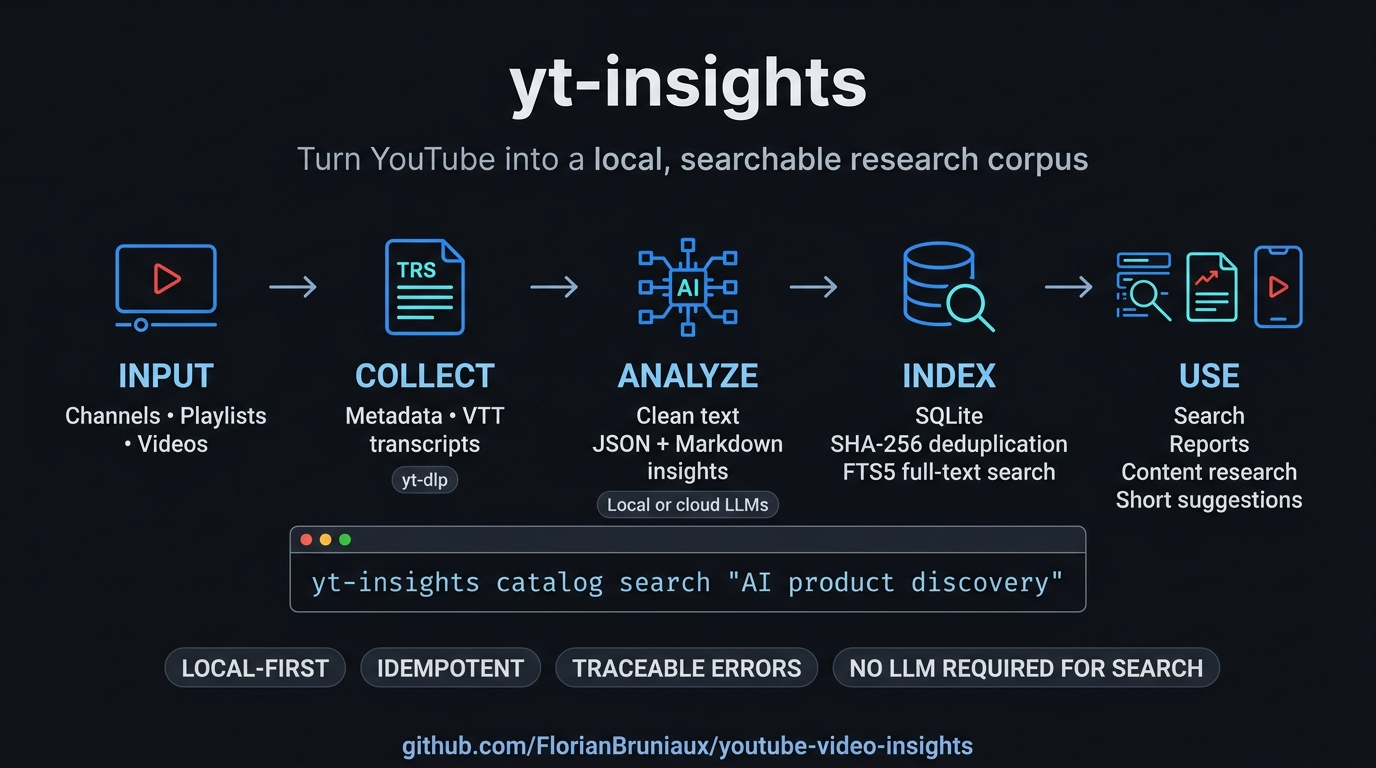
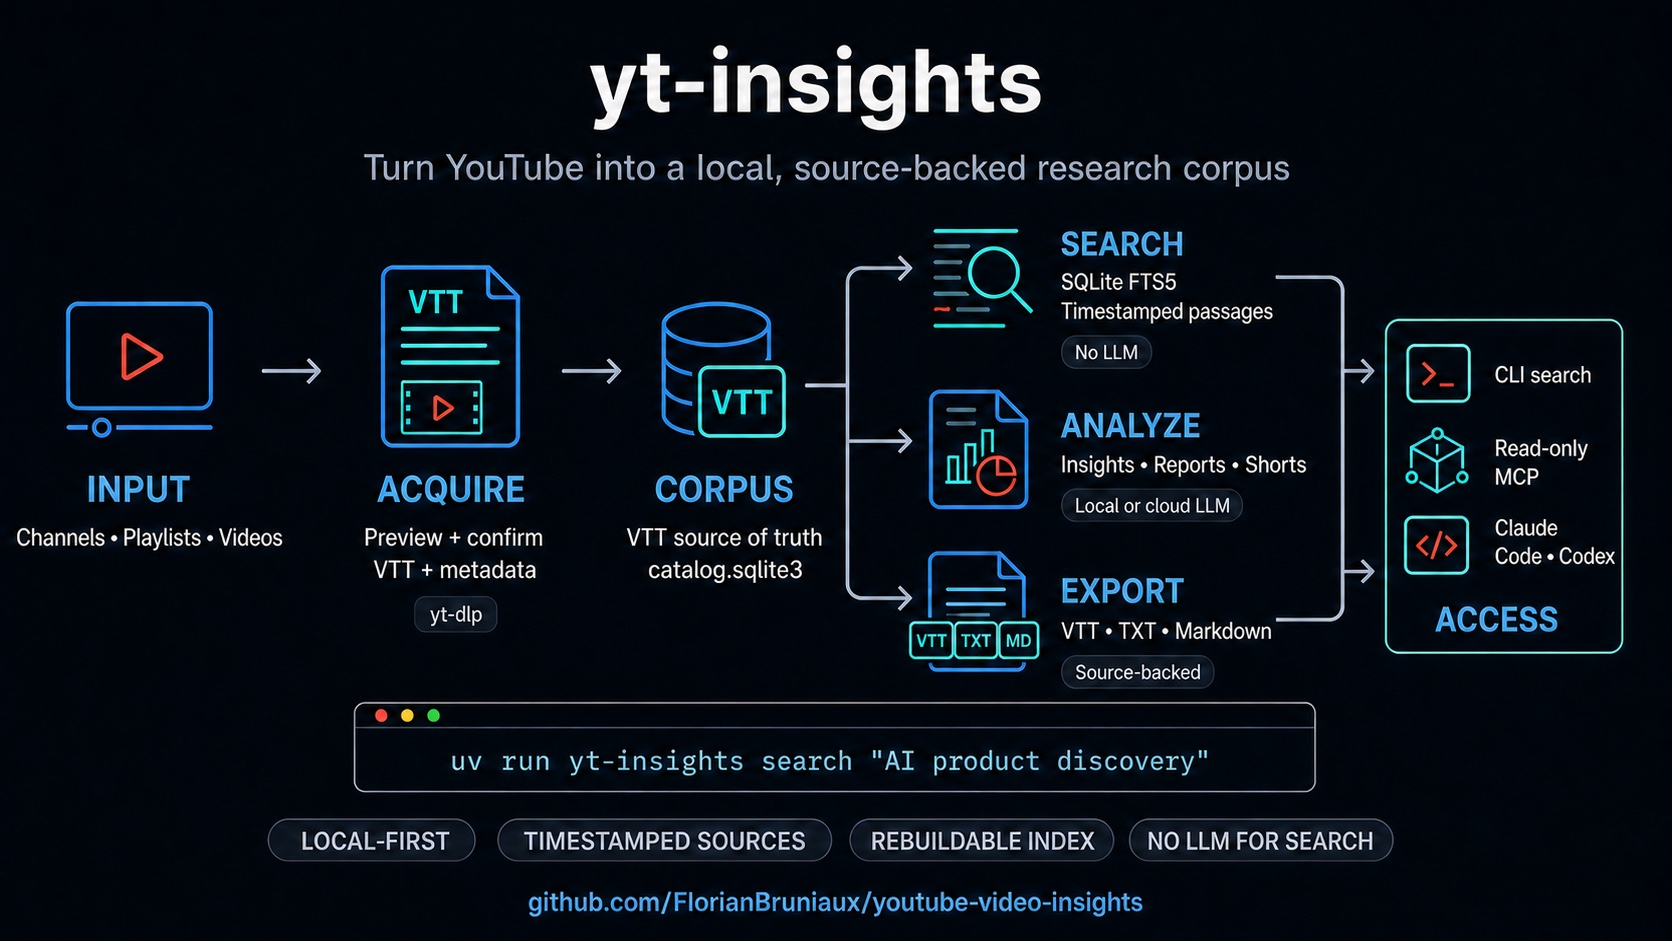
docs: refresh README workflow image

Changed region(s): [[0.0938, 0.0312, 0.9688, 0.9062], [0.0, 0.3125, 0.1875, 0.5938], [0.2812, 0.9375, 0.7188, 1.0]]

diff --git a/README.md b/README.md
@@ -12,7 +12,7 @@ index every timestamped VTT passage, and expose the corpus through the CLI or
 four read-only MCP tools. See the
 [implementation status, diagram, and test guide](docs/IMPLEMENTATION-STATUS.md).
 
-![yt-insights workflow: YouTube channels, playlists, and videos become transcripts, structured insights, a deduplicated SQLite/FTS5 index, search results, reports, and Short suggestions.](docs/assets/yt-insights-workflow.jpg)
+![yt-insights workflow: preview and acquire YouTube VTT sources, then branch into SQLite/FTS5 timestamped search without an LLM, optional analysis, source-backed exports, and read-only MCP access from Claude Code or Codex.](docs/assets/yt-insights-workflow.jpg)
 
 ---
 

diff --git a/CHANGELOG.md b/CHANGELOG.md
@@ -86,6 +86,9 @@ Format follows [Keep a Changelog](https://keepachangelog.com/en/1.1.0/).
 
 ### Documented
 
+- Replaced the README workflow image with the implemented branching architecture:
+  VTT remains the source of truth, FTS5 search and exports do not depend on an
+  LLM, and Claude Code or Codex access the corpus through the read-only MCP.
 - Recorded the digest-approved integration of global source commit `62aa9ca`
   and activation of shared release `60cbcac…`. The eight-operation transaction
   is installed, its live check reports `issues: []`, and a fresh Codex session
